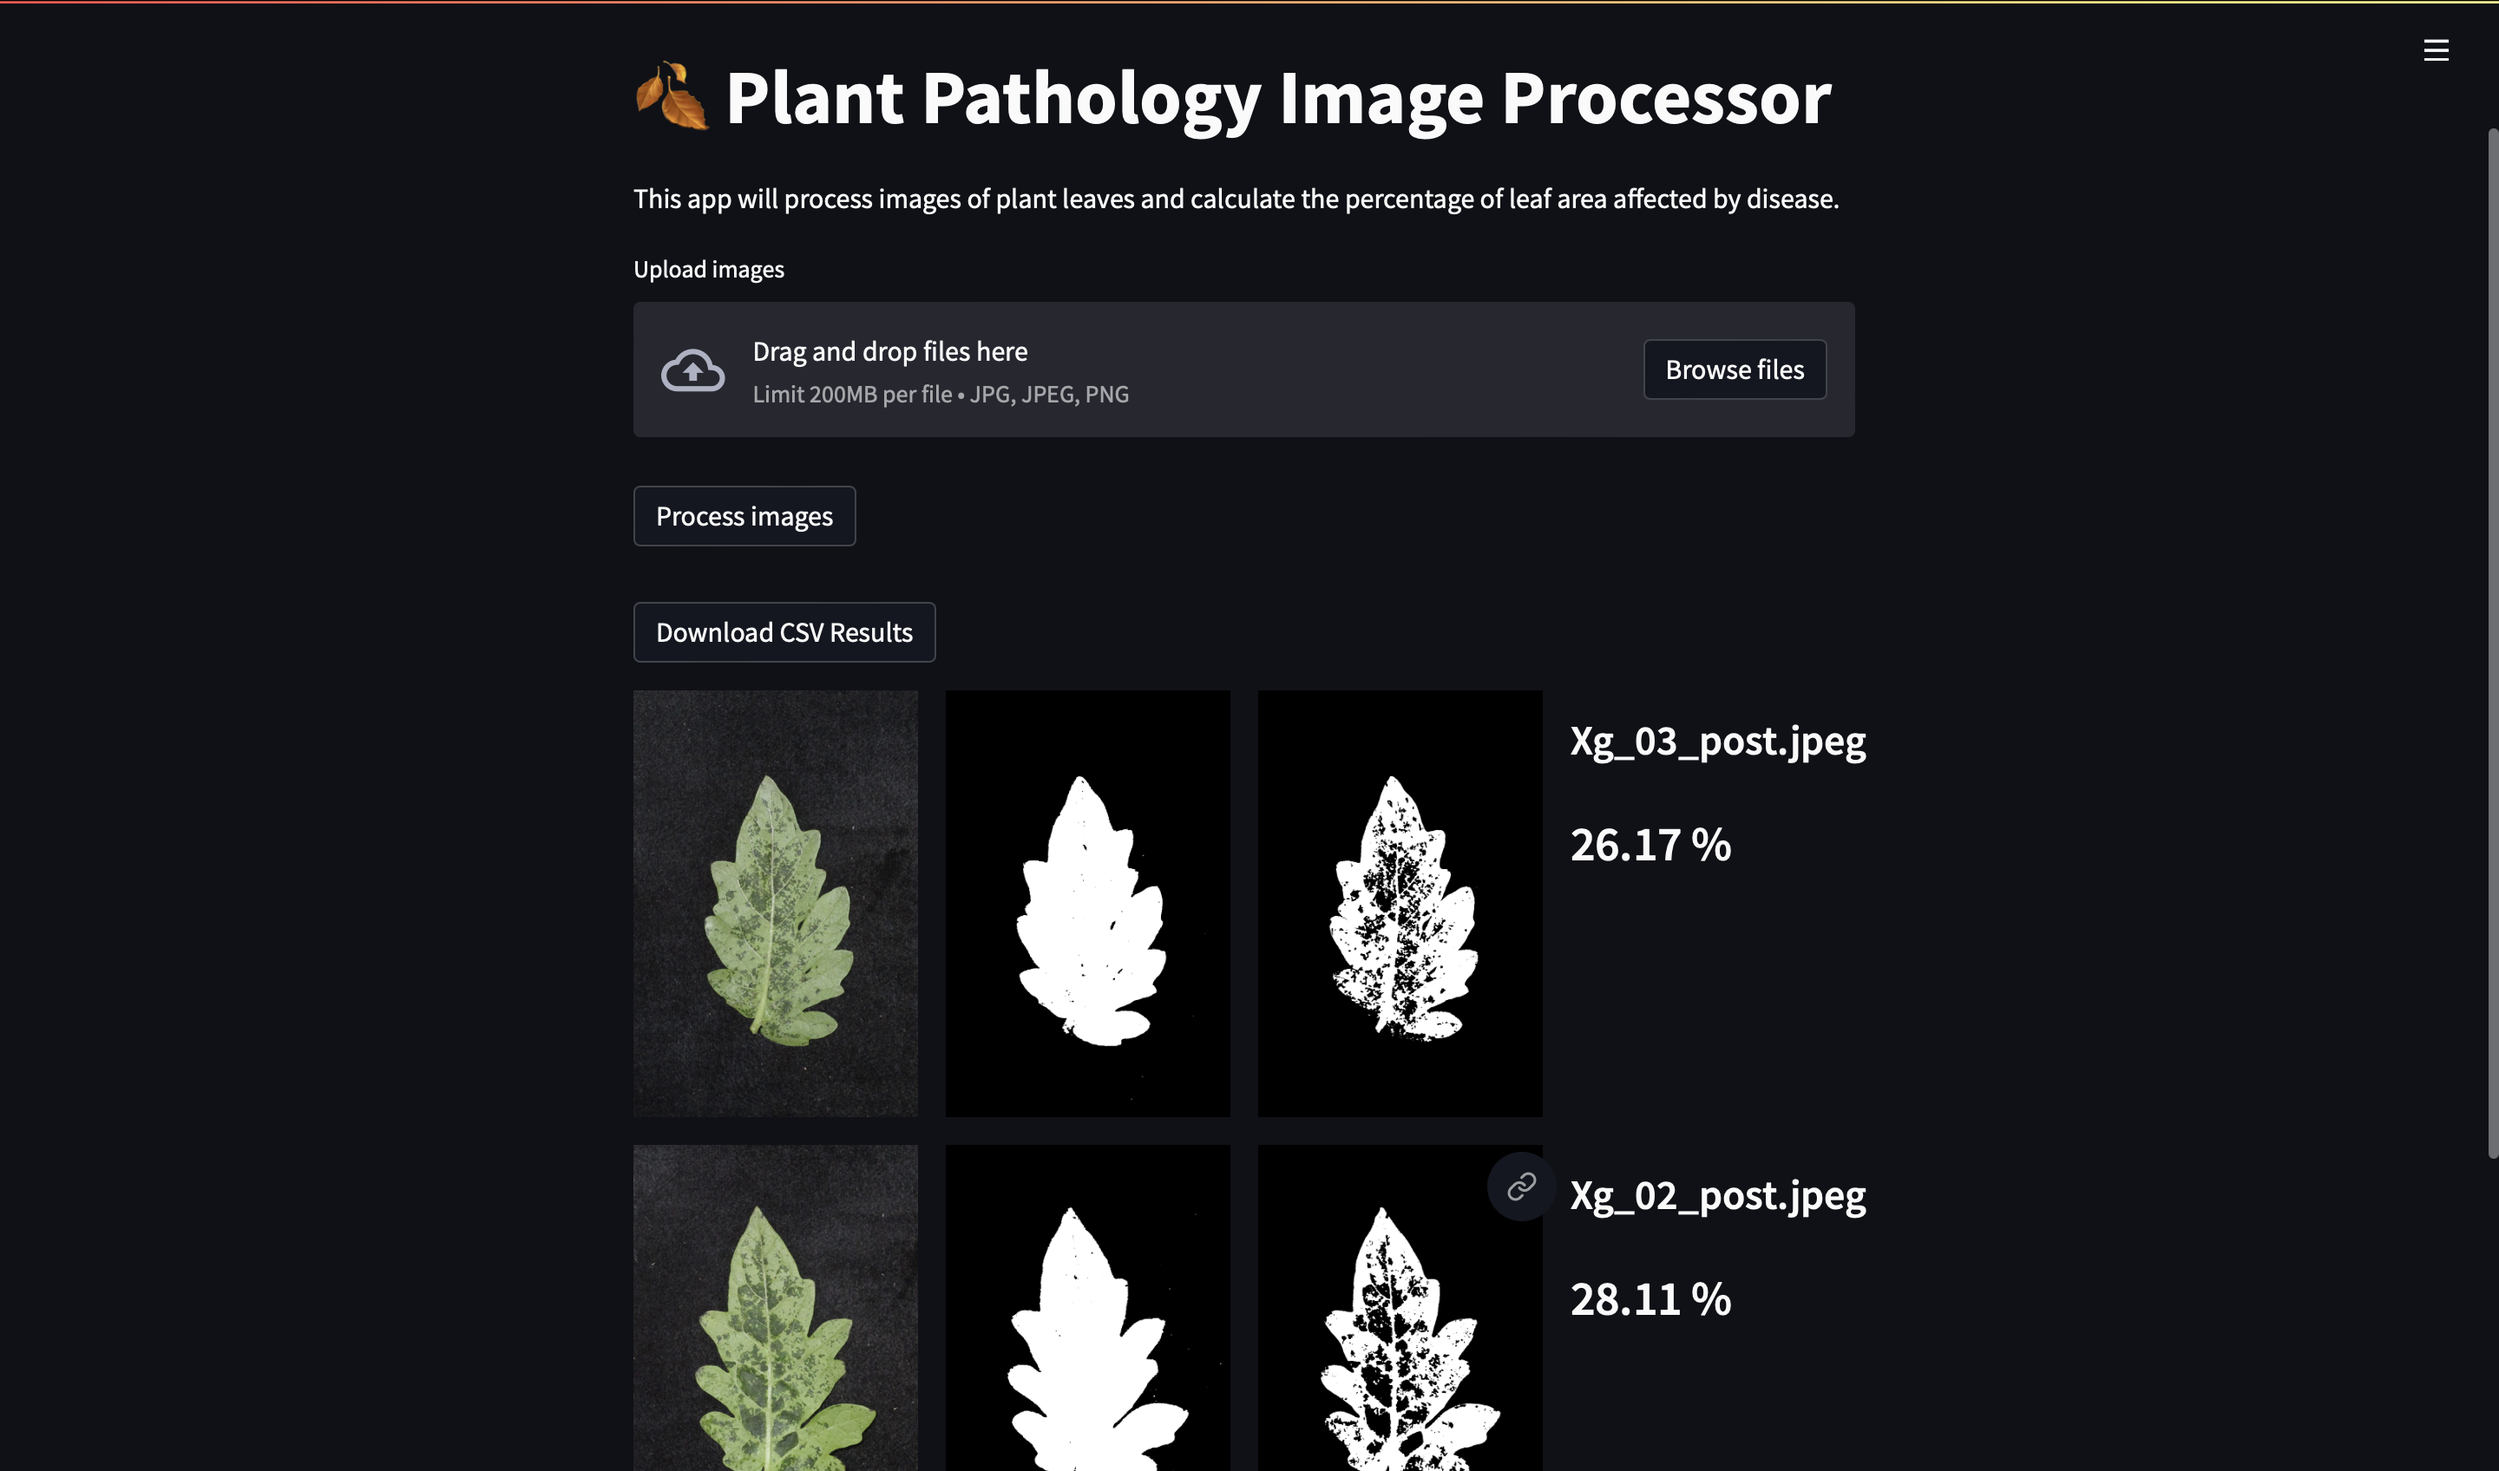
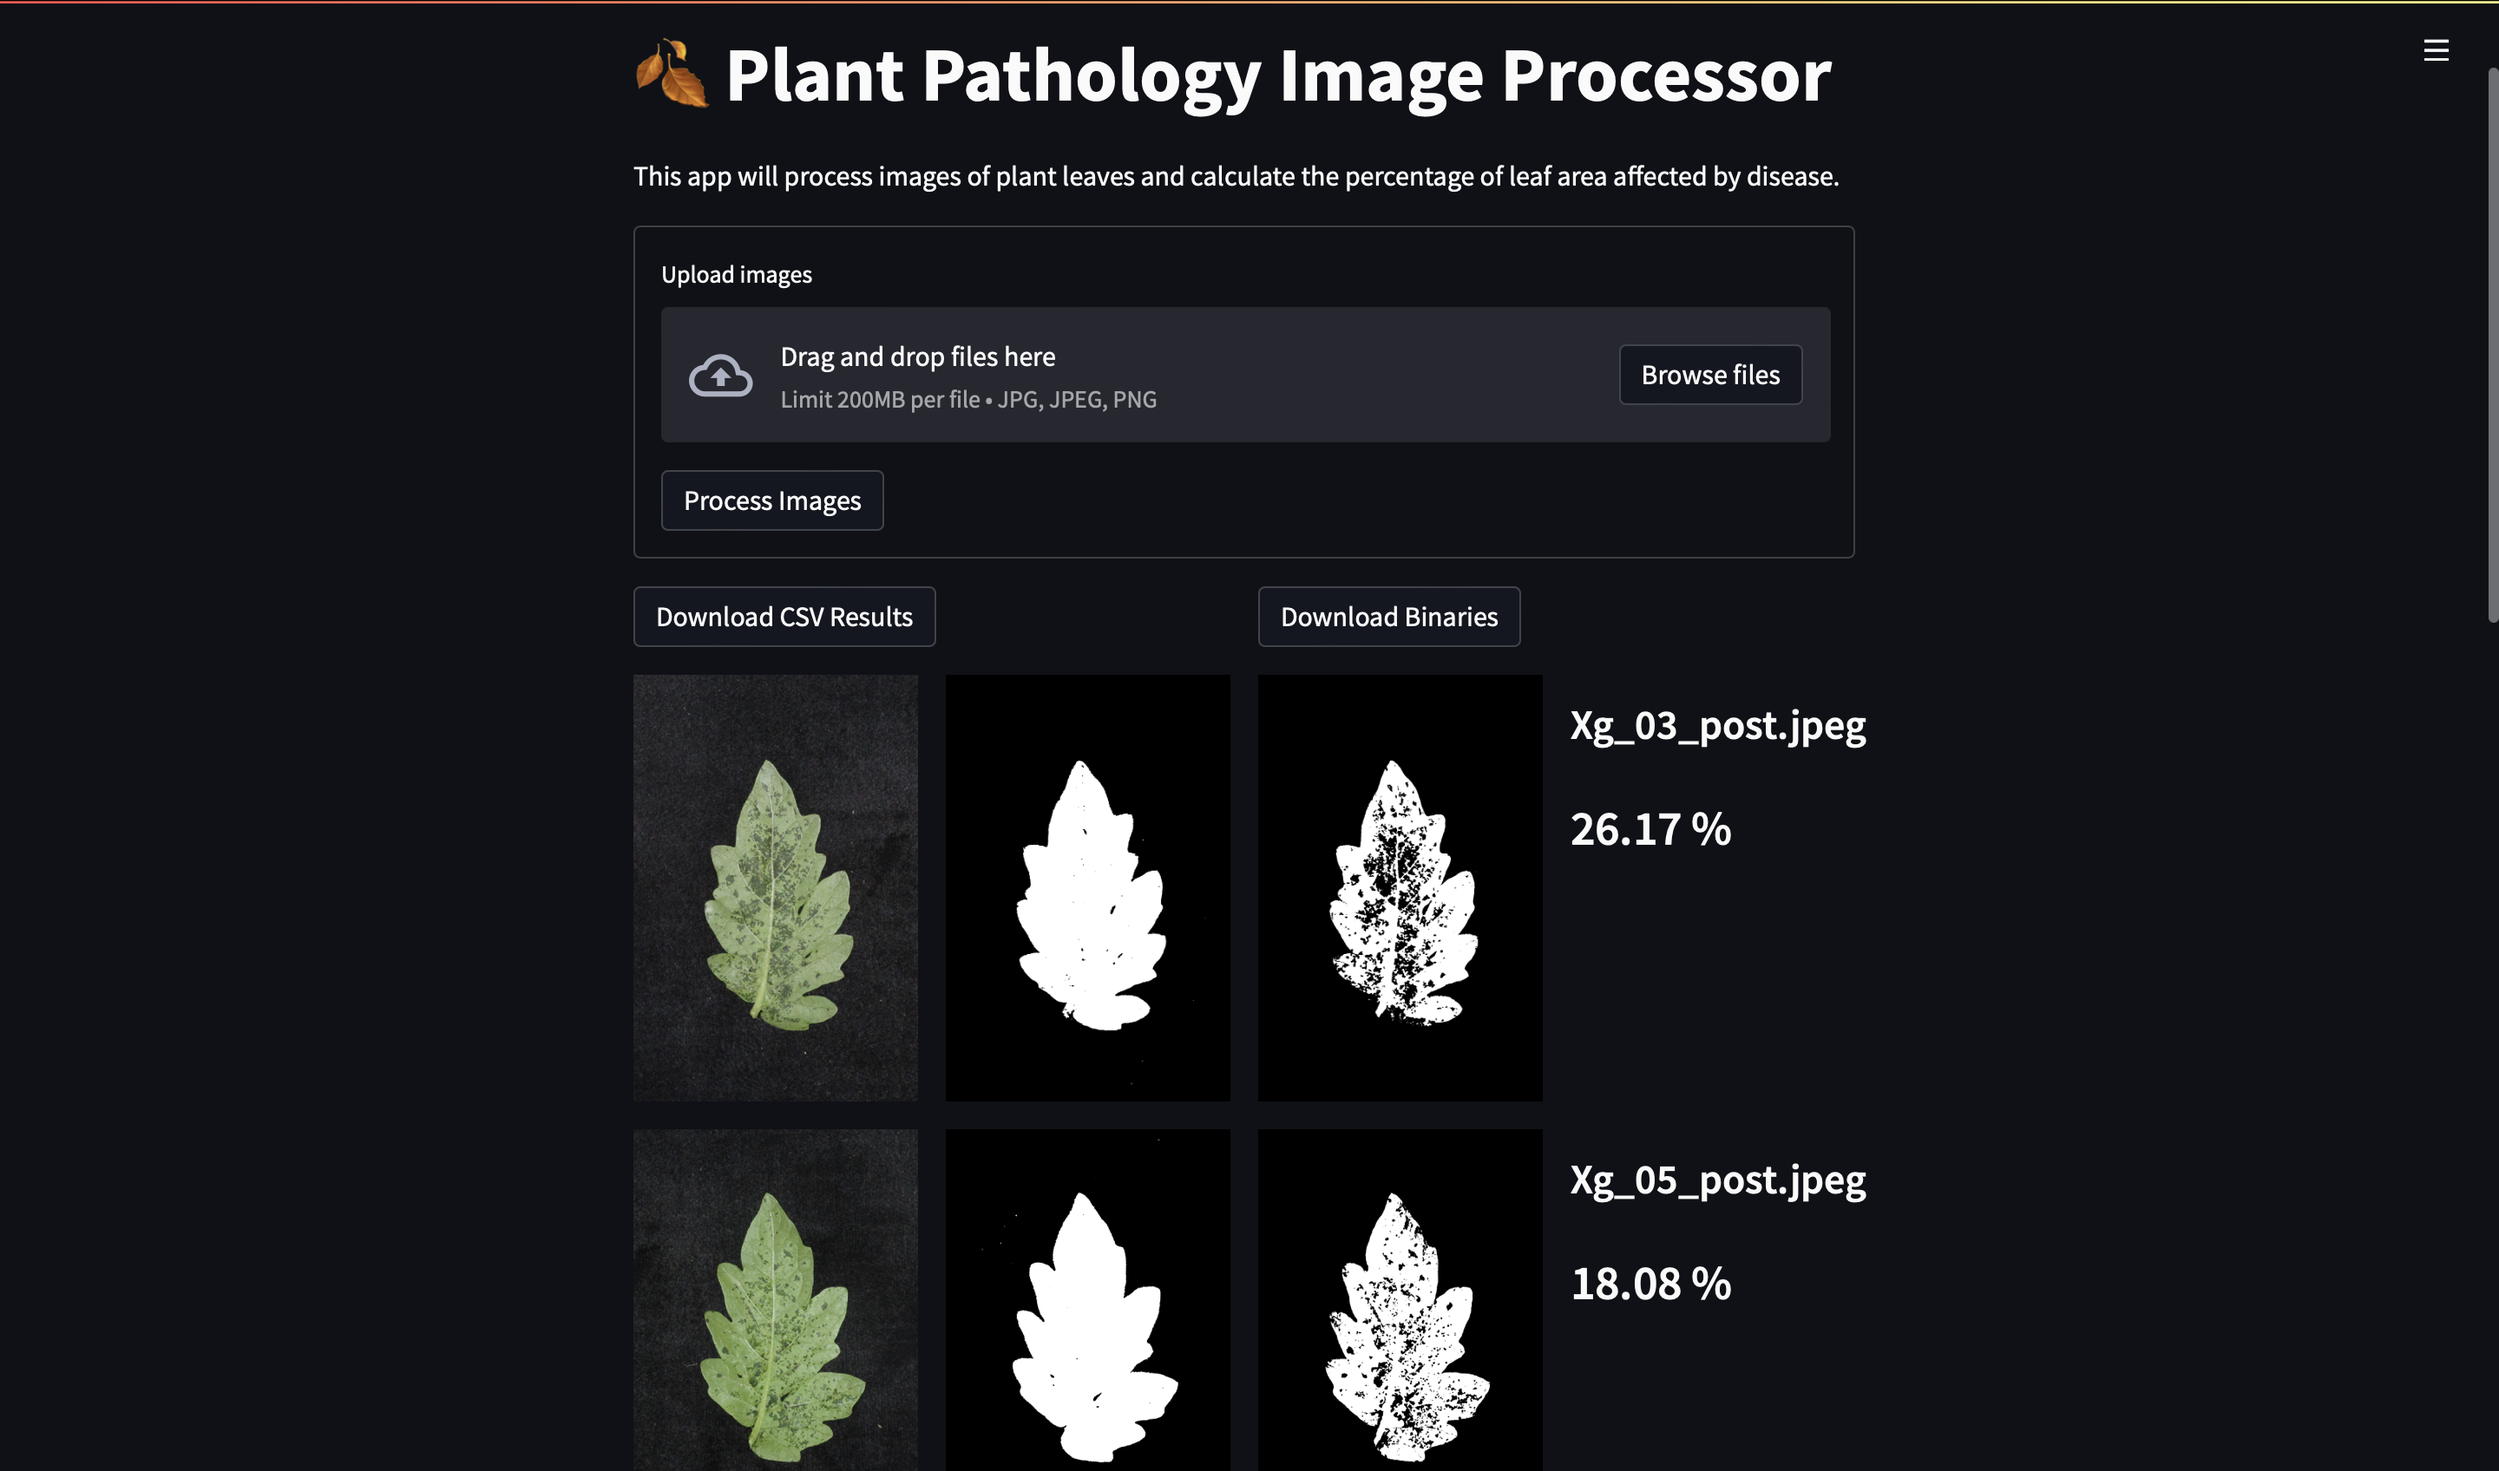
black format + demo image modified

diff --git a/ui_functions.py b/ui_functions.py
@@ -7,31 +7,37 @@ import shutil
 input_folder_path = lesion_detector.settings["input_folder_path"]
 output_folder_path = lesion_detector.settings["output_folder_path"]
 
-# if 'process' not in st.session_state:
-#     st.session_state['process'] = False
 
 def download_buttons() -> None:
-    '''
+    """
     This function downloads the results of the image processing.
-    '''
+    """
     # Readying the data
-    csv_data = bytes(lesion_detector.results_df.drop(["leaf area", "lesion area"], axis=1).to_csv(index=False), encoding='utf-8')
-    shutil.make_archive('binaries', 'zip', output_folder_path)
+    csv_data = bytes(
+        lesion_detector.results_df.drop(["leaf area", "lesion area"], axis=1).to_csv(
+            index=False
+        ),
+        encoding="utf-8",
+    )
+    shutil.make_archive("binaries", "zip", output_folder_path)
     # Add a download button
     download_cols = st.columns(2)
-    download_cols[0].download_button('Download CSV Results', csv_data, file_name = "results.csv", mime = "text/csv")
+    download_cols[0].download_button(
+        "Download CSV Results", csv_data, file_name="results.csv", mime="text/csv"
+    )
     with open("binaries.zip", "rb") as fp:
         download_cols[1].download_button(
             label="Download Binaries",
             data=fp,
             file_name="binaries.zip",
-            mime="application/zip"
+            mime="application/zip",
         )
 
+
 def process_uploaded_images() -> None:
-    '''
+    """
     This function processes the uploaded images.
-    '''
+    """
     dir = os.listdir(lesion_detector.settings["input_folder_path"])
     count = 0
     my_bar = st.progress(count)
@@ -42,23 +48,31 @@ def process_uploaded_images() -> None:
 
     my_bar.empty()
 
+
 def display_results() -> None:
-    '''
+    """
     This function displays the results of the image processing.
-    '''
+    """
 
     for image_name in os.listdir(lesion_detector.settings["input_folder_path"]):
         cols = st.columns(4)
         cols[0].image(f"{input_folder_path}/{image_name}")
-        cols[1].image(f"{output_folder_path}/leaf_area_binaries/{image_name[:-4]}_leaf_area_binary.jpeg")
-        cols[2].image(f"{output_folder_path}/lesion_area_binaries/{image_name[:-4]}_lesion_area_binary.jpeg")
-        cols[3].markdown(f"#### {image_name}\n ### {'%.2f'%lesion_detector.results_df.loc[lesion_detector.results_df['image'] == image_name, 'percentage of leaf area'].values[0]} %")
+        cols[1].image(
+            f"{output_folder_path}/leaf_area_binaries/{image_name[:-4]}_leaf_area_binary.jpeg"
+        )
+        cols[2].image(
+            f"{output_folder_path}/lesion_area_binaries/{image_name[:-4]}_lesion_area_binary.jpeg"
+        )
+        cols[3].markdown(
+            f"#### {image_name}\n ### {'%.2f'%lesion_detector.results_df.loc[lesion_detector.results_df['image'] == image_name, 'percentage of leaf area'].values[0]} %"
+        )
+
 
 def save_uploaded_files(uploaded_files: list) -> None:
-    '''
+    """
     This function saves the uploaded files to disk.
-    '''
-    
+    """
+
     # Input folder
     if os.path.exists(input_folder_path):
         shutil.rmtree(input_folder_path)
@@ -76,8 +90,10 @@ def save_uploaded_files(uploaded_files: list) -> None:
         file_name = uploaded_file.name
 
         # Save the file to disk
-        save_path = os.path.join(lesion_detector.settings["input_folder_path"], file_name)
+        save_path = os.path.join(
+            lesion_detector.settings["input_folder_path"], file_name
+        )
         with open(save_path, "wb") as f:
             f.write(file_bytes)
 
-    st.session_state['process'] = True
+    st.session_state["process"] = True

diff --git a/app.py b/app.py
@@ -1,8 +1,8 @@
 import streamlit as st
 import ui_functions
 
-if 'process' not in st.session_state:
-    st.session_state['process'] = False
+if "process" not in st.session_state:
+    st.session_state["process"] = False
 
 st.title(":fallen_leaf: Plant Pathology Image Processor")
 st.write(
@@ -10,12 +10,14 @@ st.write(
 )
 
 with st.form("my-form", clear_on_submit=True):
-    uploaded_files = st.file_uploader("Upload images", type=["jpg", "jpeg", "png"], accept_multiple_files=True)
+    uploaded_files = st.file_uploader(
+        "Upload images", type=["jpg", "jpeg", "png"], accept_multiple_files=True
+    )
     submitted = st.form_submit_button("Process Images")
     if submitted and uploaded_files is not None:
         ui_functions.save_uploaded_files(uploaded_files)
 
-if st.session_state['process'] == True:
+if st.session_state["process"] == True:
     ui_functions.process_uploaded_images()
     ui_functions.download_buttons()
     ui_functions.display_results()

diff --git a/lesion_detector.py b/lesion_detector.py
@@ -115,9 +115,9 @@ def get_lesion_area_binary(img: Image, image_name: str) -> Image:
 
 
 def process_image(image_file_name: str) -> None:
-    '''
+    """
     This function takes an image file name as input and saves the leaf area binary and lesion area binary to the output folder.
-    '''
+    """
 
     global results_df
 

diff --git a/README.md b/README.md
@@ -31,8 +31,3 @@ pip install -r requirements.txt
 ```bash
 python3 lesion_detector.py
 ```
-> Example
-
-Original image           | Leaf area binary           |  Non-lesion area binary
-:-------------------------:|:-------------------------:|:-------------------------:
-![Original image](./input_images/Xg_02_post.jpeg)  | ![Leaf area binary](./results/leaf_area_binaries/Xg_02_post._leaf_area_binary.jpeg)  |  ![Non-lesion area binary](results/lesion_area_binaries/Xg_02_post._lesion_area_binary.jpeg)
